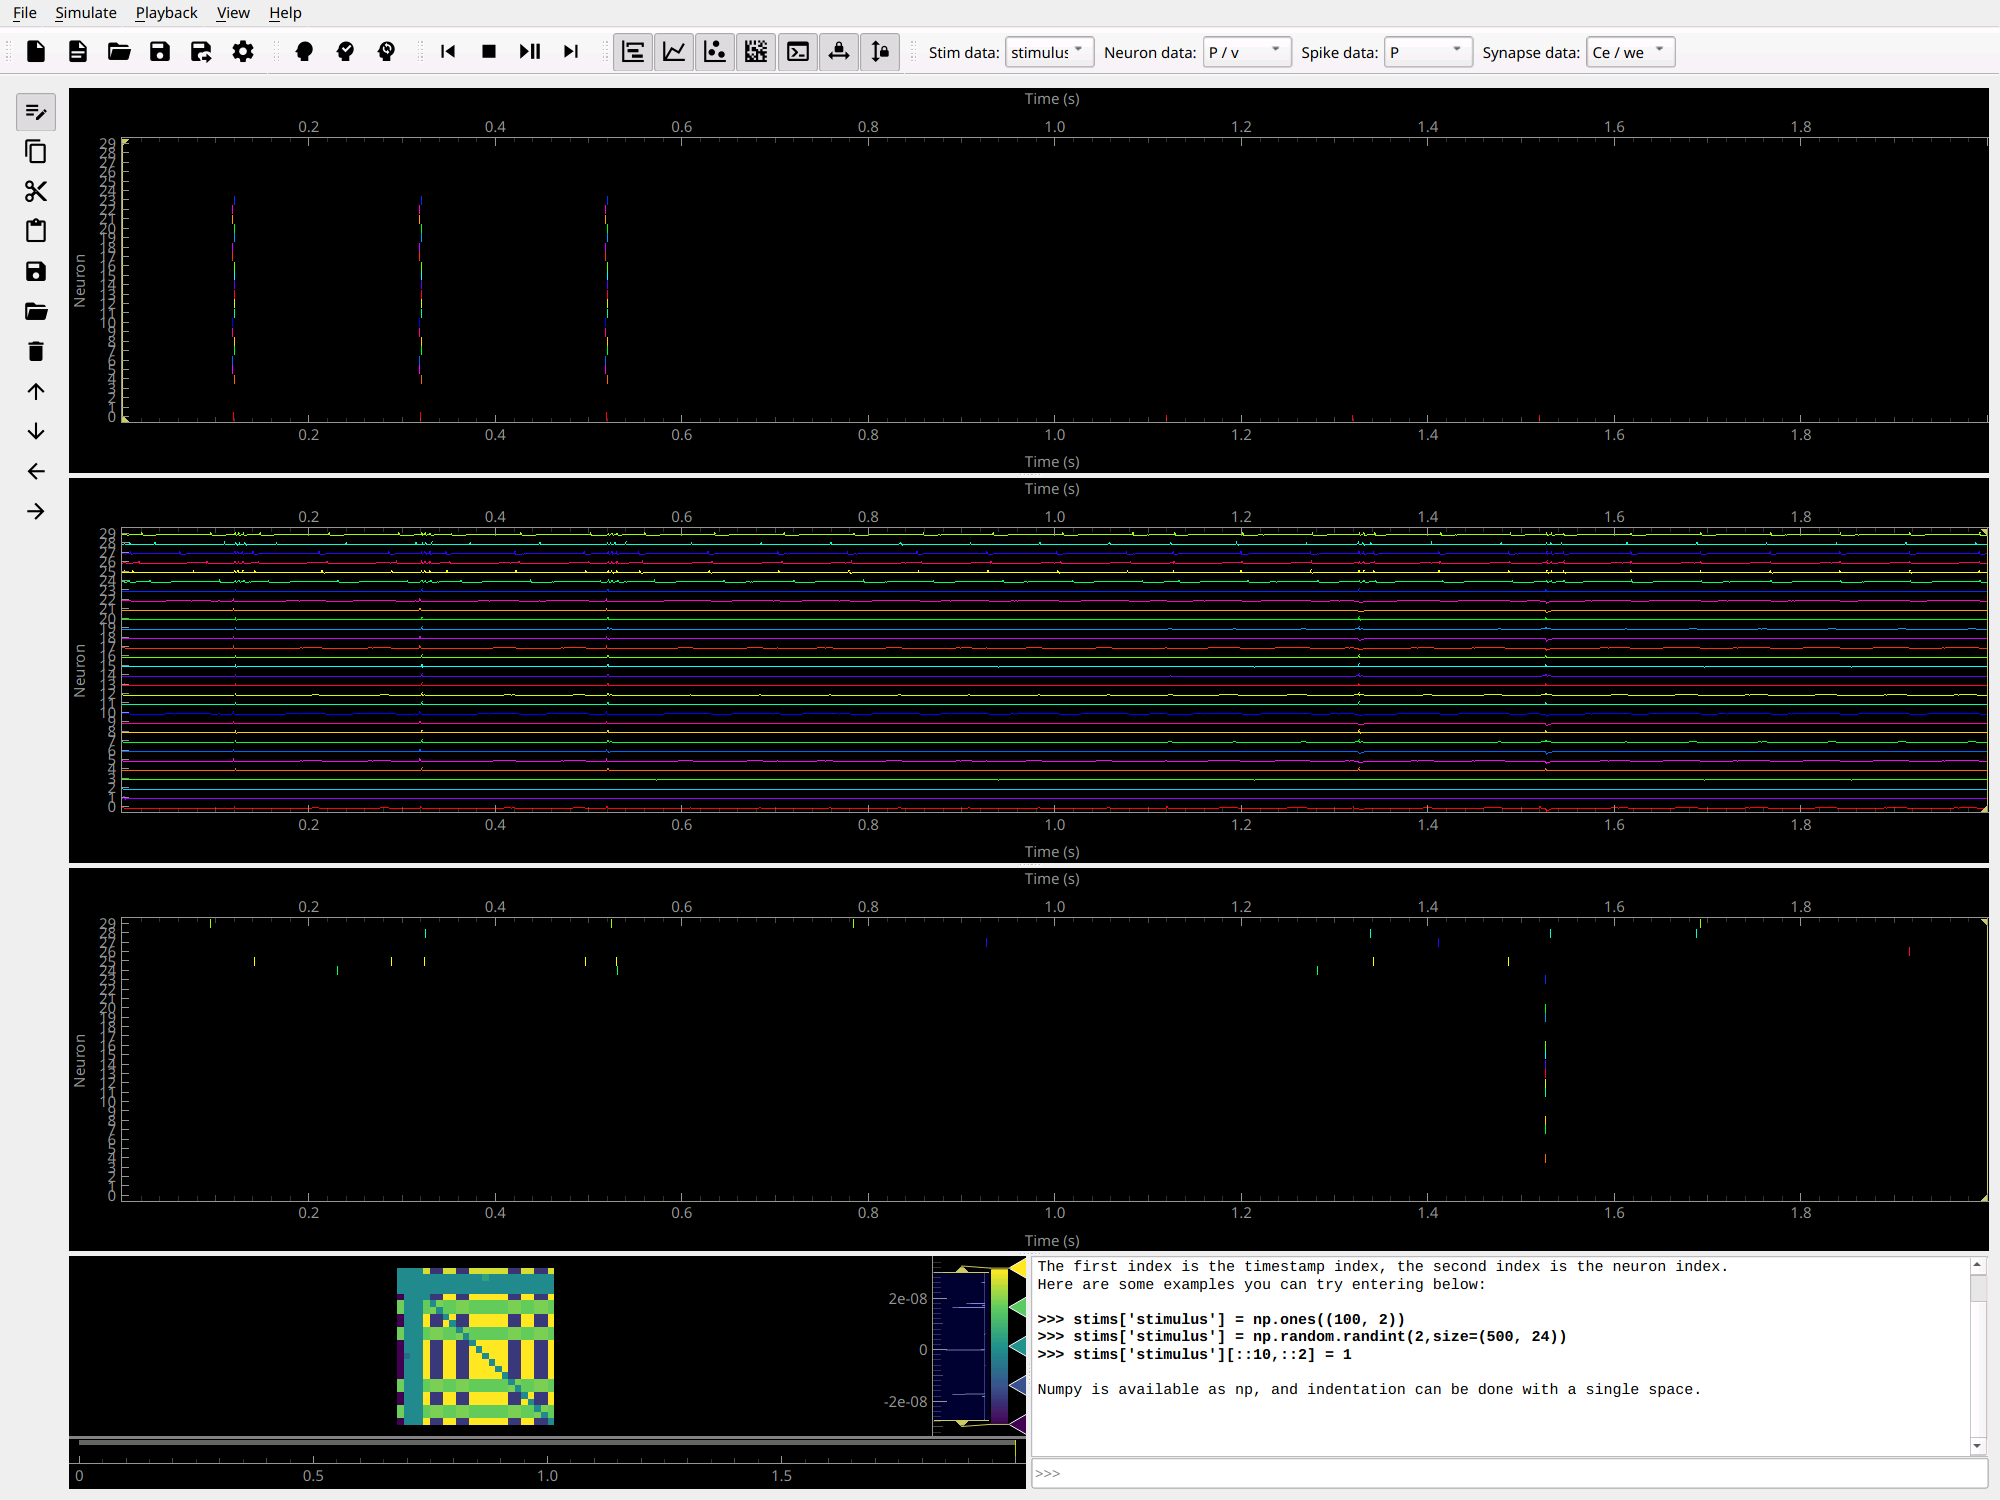
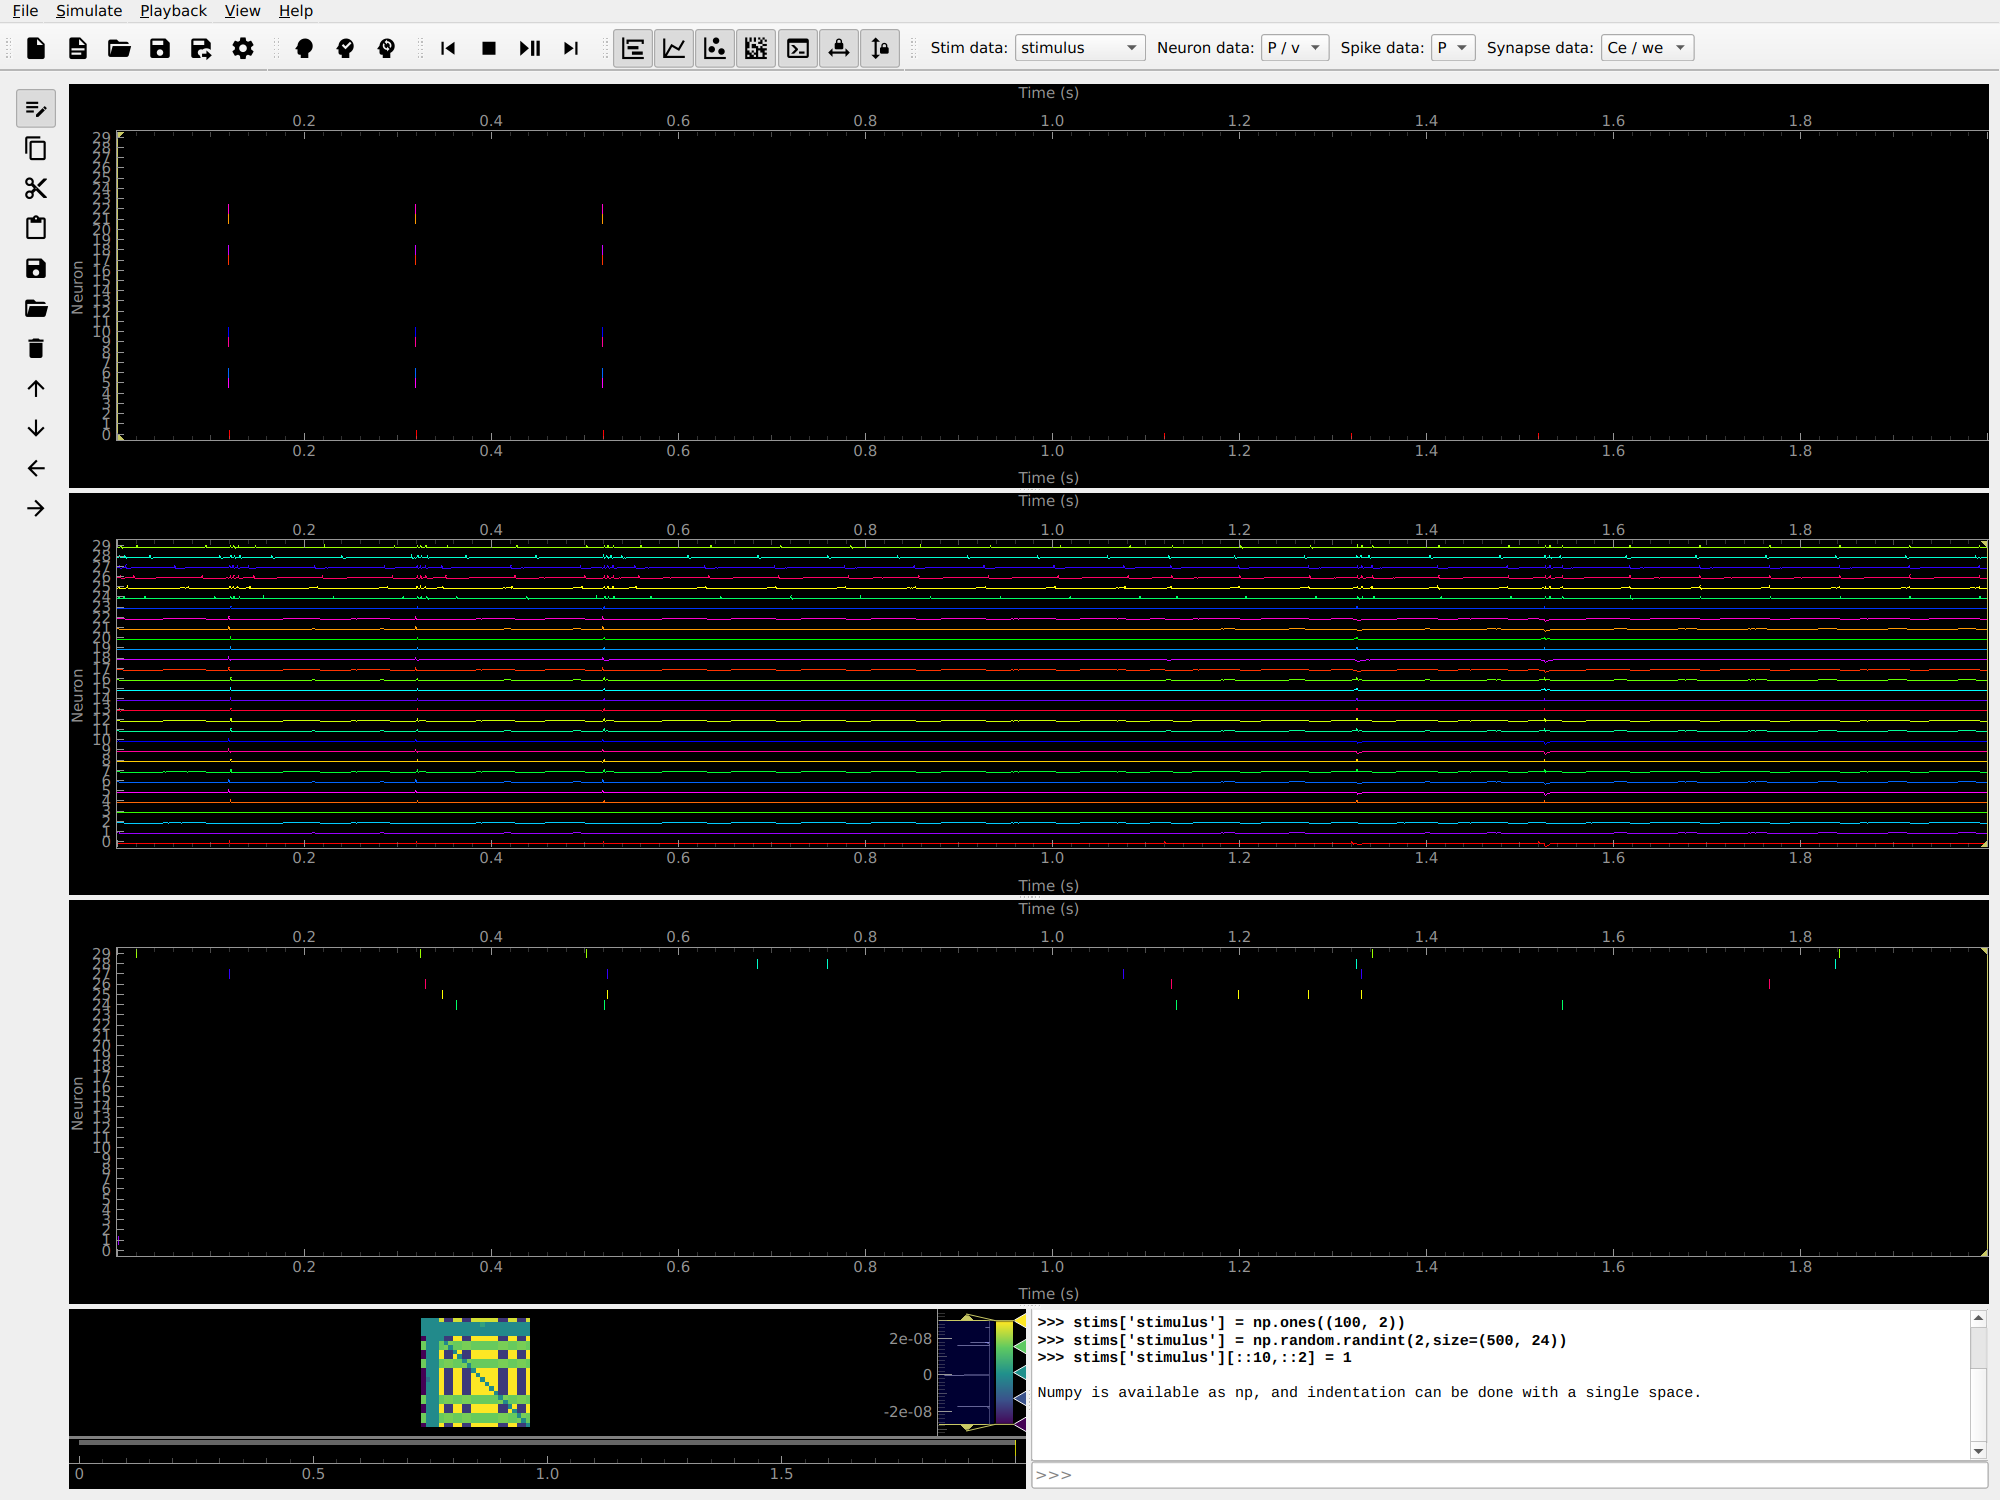
Load example model by default
- add optional filename argument to CLI of GUI
- if filename is not specified, load the default example model
- resolves #105

Changed region(s): [[0.0, 0.0, 1.0, 0.9813]]

diff --git a/tests/test_gui.py b/tests/test_gui.py
@@ -22,9 +22,7 @@ delay_after_update_model_call_in_ms = 50
 
 
 @pytest.mark.screenshot
-def test_update_screenshot(
-    monkeypatch: MonkeyPatch, qtbot: QtBot, default_model_path: Path
-) -> None:
+def test_update_screenshot(monkeypatch: MonkeyPatch, qtbot: QtBot) -> None:
     gui = Gui()
     gui.show()
     qtbot.addWidget(gui)
@@ -35,8 +33,6 @@ def test_update_screenshot(
     monkeypatch.setattr(
         QtWidgets.QInputDialog, "getText", lambda *args: (f"{simulation_time}", True)
     )
-    qtbot.wait(delay_after_update_model_call_in_ms)
-    gui.load_model(default_model_path)
     qtbot.wait(delay_after_update_model_call_in_ms)
     gui.btn_continue_simulation_clicked()
     qtbot.wait(delay_after_update_model_call_in_ms)
@@ -63,18 +59,14 @@ def test_gui_simulate_and_playback(
     gui.show()
     qtbot.addWidget(gui)
     qtbot.waitUntil(lambda: gui.isVisible())
+    qtbot.wait(delay_after_update_model_call_in_ms)
     assert gui.heatmap_widget.currentIndex == 0
     assert gui.trace_widget.timeline.getXPos() == approx(0)
-    assert gui.cmb_synapse.count() == 0
-    assert gui.cmb_neuron.count() == 0
-    assert gui.cmb_spike.count() == 0
     simulation_time = 0.1
     # mock getText to return the desired simulation time
     monkeypatch.setattr(
         QtWidgets.QInputDialog, "getText", lambda *args: (f"{simulation_time}", True)
     )
-    qtbot.wait(delay_after_update_model_call_in_ms)
-    gui.load_model(default_model_path)
     qtbot.wait(delay_after_update_model_call_in_ms)
     assert gui.cmb_synapse.count() == 1
     assert gui.cmb_synapse.itemText(0) == "Ce / we"
@@ -111,6 +103,7 @@ def test_gui_new(tmp_path: Path, monkeypatch: MonkeyPatch, qtbot: QtBot) -> None
     gui.show()
     qtbot.addWidget(gui)
     qtbot.waitUntil(lambda: gui.isVisible())
+    assert gui.model.name == B2Model().name
     monkeypatch.setattr("formozov_project.gui.B2ModelWidget.exec", lambda *args: True)
     gui.btn_new_clicked()
     assert gui.model.name == B2Model().name
@@ -129,12 +122,8 @@ def test_gui_open(
         lambda *args: (f"{default_model_path}", True),
     )
 
-    assert gui.model.parameters is None
-    assert gui.model.neurongroups == {}
-    assert gui.model.synapses == {}
-    assert gui.model.monitors == {}
-
     loaded_model = B2Model.load_model(default_model_path)
+    assert loaded_model.parameters is not None
 
     gui.btn_open_clicked()
 
@@ -152,6 +141,7 @@ def test_gui_save(
     gui.show()
     qtbot.addWidget(gui)
     qtbot.waitUntil(lambda: gui.isVisible())
+    qtbot.wait(delay_after_update_model_call_in_ms)
     gui.update_model(mfx_ornstein)
     qtbot.wait(delay_after_update_model_call_in_ms)
     filename = tmp_path / "test.json"
@@ -175,6 +165,7 @@ def test_gui_export(
     gui.show()
     qtbot.addWidget(gui)
     qtbot.waitUntil(lambda: gui.isVisible())
+    qtbot.wait(delay_after_update_model_call_in_ms)
     gui.update_model(mfx_ornstein)
     qtbot.wait(delay_after_update_model_call_in_ms)
     filename = tmp_path / "test.h5"
@@ -194,6 +185,7 @@ def test_gui_export_empty_model(
     gui.show()
     qtbot.addWidget(gui)
     qtbot.waitUntil(lambda: gui.isVisible())
+    gui.update_model(B2Model())
     filename = tmp_path / "test.h5"
     assert not filename.exists()
     assert len(qmessagebox_calls) == 0

diff --git a/src/formozov_project/gui.py b/src/formozov_project/gui.py
@@ -1,6 +1,7 @@
 from __future__ import annotations
 
 import logging
+import pathlib
 
 import brian2 as b2
 import brian2.numpy_ as np
@@ -25,7 +26,7 @@ from formozov_project.utils import with_wait_cursor
 
 
 class Gui(QtWidgets.QMainWindow):
-    def __init__(self) -> None:
+    def __init__(self, filename: pathlib.Path | str | None = None) -> None:
         super().__init__()
         self.logger = logging.getLogger(__name__)
         self.logger.info("starting Gui")
@@ -80,6 +81,9 @@ class Gui(QtWidgets.QMainWindow):
         self.cmb_neuron.currentTextChanged.connect(self.set_neuron)
         self.cmb_synapse.currentTextChanged.connect(self.set_synapse)
         self.cmb_spike.currentTextChanged.connect(self.set_spike)
+        if filename is None:
+            filename = example_models_path / "default_model.json"
+        self.load_model(str(filename))
 
     def _update_data(self) -> None:
         self.set_neuron(self.cmb_neuron.currentText())
@@ -195,6 +199,7 @@ class Gui(QtWidgets.QMainWindow):
                 "Model construction error",
                 f"Could not load model from file '{filename}': {e}",
             )
+            self.progress_dialog.reset()
             return
 
     def update_model(self, model: B2Model) -> None:

diff --git a/src/formozov_project/__main__.py b/src/formozov_project/__main__.py
@@ -30,7 +30,8 @@ from formozov_project.utils import init_brian2_logging
     help="Log to this file instead of the console",
     show_default=True,
 )
-def main(log_level: str, log_file: pathlib.Path) -> None:
+@click.argument("filename", required=False)
+def main(log_level: str, log_file: pathlib.Path, filename: str | None) -> None:
     init_brian2_logging()
     logging.basicConfig(
         level=log_level,
@@ -42,7 +43,7 @@ def main(log_level: str, log_file: pathlib.Path) -> None:
     click.echo(msg)
     logging.getLogger(__name__).info(msg)
     app = QtWidgets.QApplication(sys.argv)
-    gui = Gui()
+    gui = Gui(filename=filename)
     gui.show()
     app.exec()
 

diff --git a/src/formozov_project/utils.py b/src/formozov_project/utils.py
@@ -2,6 +2,7 @@ from __future__ import annotations
 
 import abc
 import functools
+import pathlib
 import re
 from collections.abc import Callable
 from importlib import resources
@@ -14,7 +15,9 @@ from qtpy import QtWidgets
 
 import formozov_project
 
-example_models_path = resources.files(formozov_project) / "example_models"
+example_models_path = (
+    pathlib.Path(str(resources.files(formozov_project))) / "example_models"
+)
 
 
 def shuffle_index(i: int, n: int) -> tuple[int, int]:

diff --git a/tests/conftest.py b/tests/conftest.py
@@ -75,7 +75,7 @@ def reduce_brian2_logging_verbosity() -> None:
 
 @pytest.fixture(scope="session")
 def default_model_path() -> pathlib.Path:
-    return pathlib.Path(str(example_models_path / "default_model.json"))
+    return example_models_path / "default_model.json"
 
 
 @pytest.fixture(scope="session")

diff --git a/tests/test_main.py b/tests/test_main.py
@@ -9,7 +9,7 @@ from formozov_project.__main__ import main
 
 
 class FakeGui:
-    def __init__(self) -> None:
+    def __init__(self, *args: Any, **kwargs: Any) -> None:
         pass
 
     def show(self) -> None:
